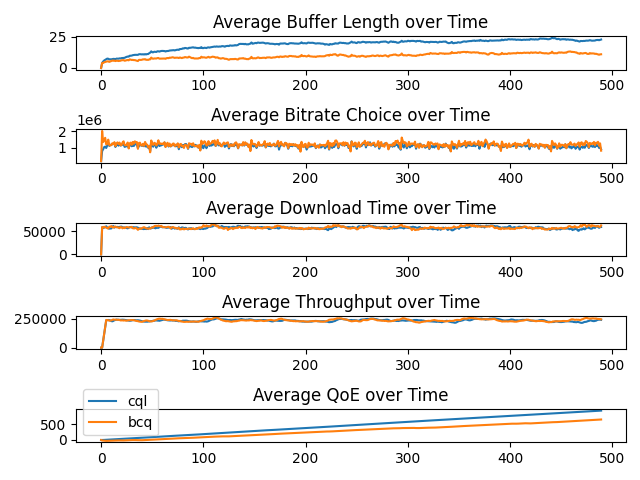
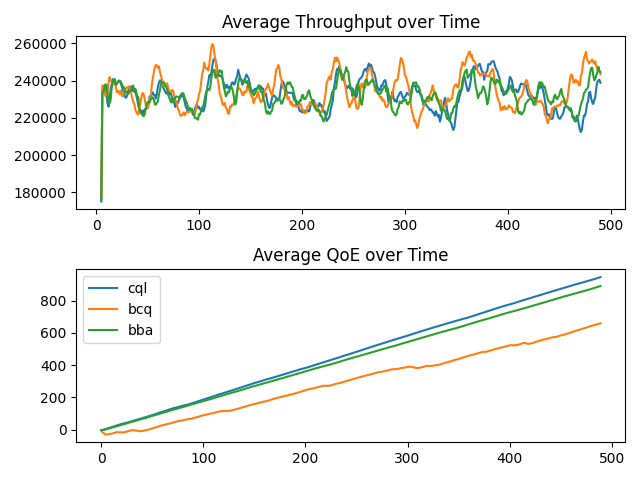
bba graphs

diff --git a/evaluate_model.py b/evaluate_model.py
@@ -119,32 +119,35 @@ def average_trajectory(trajectories, field):
         return avg[4:]
     return avg
 
-def plot_trajectory_overlay(cql_trajectories, bcq_trajectories):
+def plot_trajectory_overlay(cql_trajectories, bcq_trajectories, bba_trajectories):
     cql_avg_buffer_length = average_trajectory(cql_trajectories, "buffer_length")
     bcq_avg_buffer_length = average_trajectory(bcq_trajectories, "buffer_length")
 
     cql_avg_action_bitrate = average_trajectory(cql_trajectories, "action_bitrate")
     bcq_avg_action_bitrate = average_trajectory(bcq_trajectories, "action_bitrate")
-
+    bba_avg_action_bitrate = average_trajectory(bba_trajectories, "action_bitrate") 
 
     cql_avg_download_time = average_trajectory(cql_trajectories, "download_time")
     bcq_avg_download_time = average_trajectory(bcq_trajectories, "download_time")
 
     cql_avg_throughput = average_trajectory(cql_trajectories, "throughput")
     bcq_avg_throughput = average_trajectory(bcq_trajectories, "throughput")
+    bba_avg_throughput = average_trajectory(bba_trajectories, "throughput")
 
     cql_avg_reward = average_trajectory(cql_trajectories, "reward")
     bcq_avg_reward = average_trajectory(bcq_trajectories, "reward")
+    bba_avg_reward = average_trajectory(bba_trajectories, "reward")
 
     # plt.subplot(211)
     # plt.plot(cql_avg_buffer_length, label="cql")
     # plt.plot(bcq_avg_buffer_length, label="bcq")
     # plt.title("Average Buffer Length over Time")
 
-    plt.subplot(211)
-    plt.plot(cql_avg_action_bitrate, label="cql")
-    plt.plot(bcq_avg_action_bitrate, label="bcq")
-    plt.title("Average Bitrate Choice over Time")
+    # plt.subplot(211)
+    # plt.plot(cql_avg_action_bitrate, label="cql")
+    # plt.plot(bcq_avg_action_bitrate, label="bcq")
+    # plt.plot(bba_avg_action_bitrate, label="bba")
+    # plt.title("Average Bitrate Choice over Time")
 
     # plt.legend()
     # plt.tight_layout(pad=1.0)
@@ -156,23 +159,25 @@ def plot_trajectory_overlay(cql_trajectories, bcq_trajectories):
     # plt.plot(bcq_avg_download_time, label="bcq")
     # plt.title("Average Download Time over Time")
 
-    plt.subplot(212)
+    plt.subplot(211)
     plt.plot([i for i in range(5,491)], cql_avg_throughput, label="cql")
-    plt.plot(bcq_avg_throughput, label="bcq")
+    plt.plot([i for i in range(5,491)], bcq_avg_throughput, label="bcq")
+    plt.plot([i for i in range(5,491)], bba_avg_throughput, label="bba")
     plt.title("Average Throughput over Time")
-
-    plt.legend()
-    plt.tight_layout(pad=1.0)
-    plt.savefig("output/trajectory_overlay2.png")
-
-    # plt.subplot(515)
-    # plt.plot(cql_avg_reward, label="cql")
-    # plt.plot(bcq_avg_reward, label="bcq")
-    # plt.title("Average QoE over Time")
 
     # plt.legend()
     # plt.tight_layout(pad=1.0)
-    # plt.savefig("output/trajectory_overlay_all.png")
+    # plt.savefig("output/trajectory_overlay2.png")
+
+    plt.subplot(212)
+    plt.plot(cql_avg_reward, label="cql")
+    plt.plot(bcq_avg_reward, label="bcq")
+    plt.plot(bba_avg_reward, label="bba")
+    plt.title("Average QoE over Time")
+
+    plt.legend()
+    plt.tight_layout(pad=1.0)
+    plt.savefig("output/trajectory_overlay_all.png")
 
 
 def plot_avg_trajectory_metrics(trajectories, agent_name):
@@ -233,18 +238,18 @@ if __name__ == "__main__":
     #ppo_trajectories = evaluate_agent(trainer, ppo=True)
 
     cql_model.load_model(CQL_MODEL_WEIGHTS)
-    #cql_trajectories = evaluate_agent(cql_model)
+    cql_trajectories = evaluate_agent(cql_model)
     bcq_model.load_model(BCQ_MODEL_WEIGHTS)
-    #bcq_trajectories = evaluate_agent(bcq_model)
+    bcq_trajectories = evaluate_agent(bcq_model)
 
     bba_agent = BBAAgent(env = ABRSimEnv())
     bba_trajectories = evaluate_agent(bba_agent, bba=True)
 
-    #plot_trajectory_overlay(cql_trajectories, bcq_trajectories)
+    plot_trajectory_overlay(cql_trajectories, bcq_trajectories, bba_trajectories)
     #plot_trajectory(cql_trajectories[0], "cql")
     #plot_trajectory(bcq_trajectories[0], "bcq")
     #plot_trajectory(ppo_trajectories[0], "ppo")
-    plot_trajectory(bba_trajectories[0], "bba")
+    # plot_trajectory(bba_trajectories[0], "bba")
 
     # plot_avg_trajectory_metrics(cql_trajectories, "cql")
 
